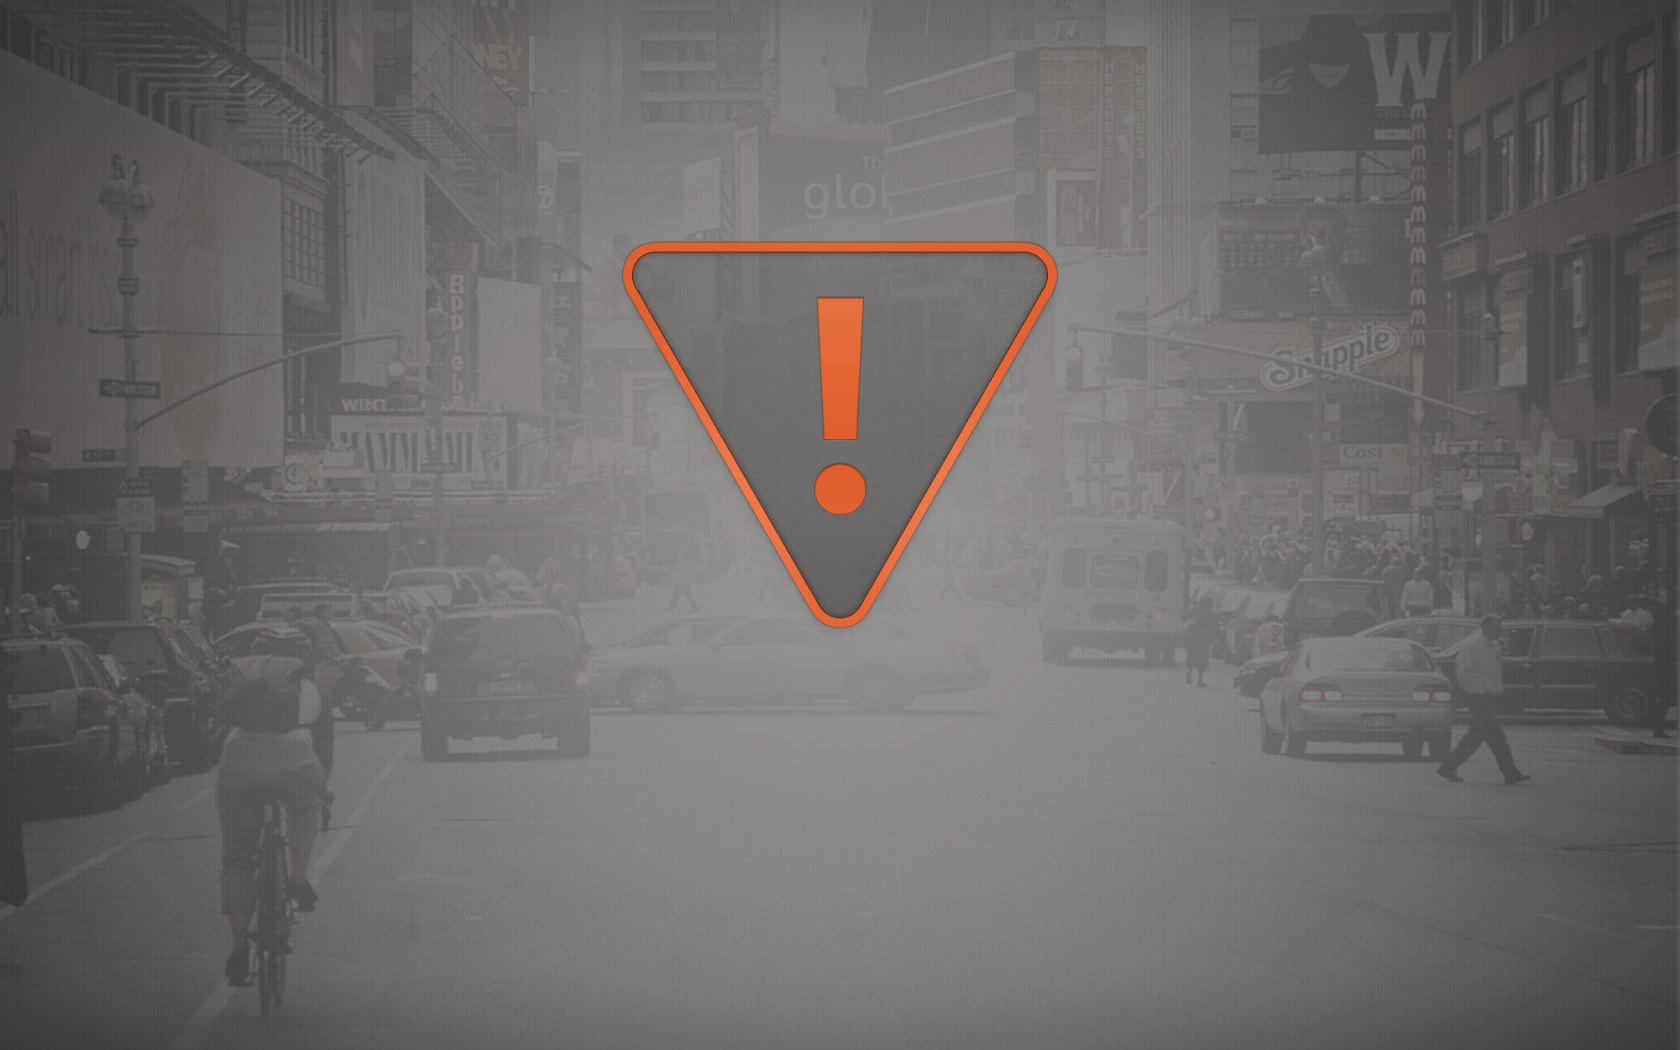
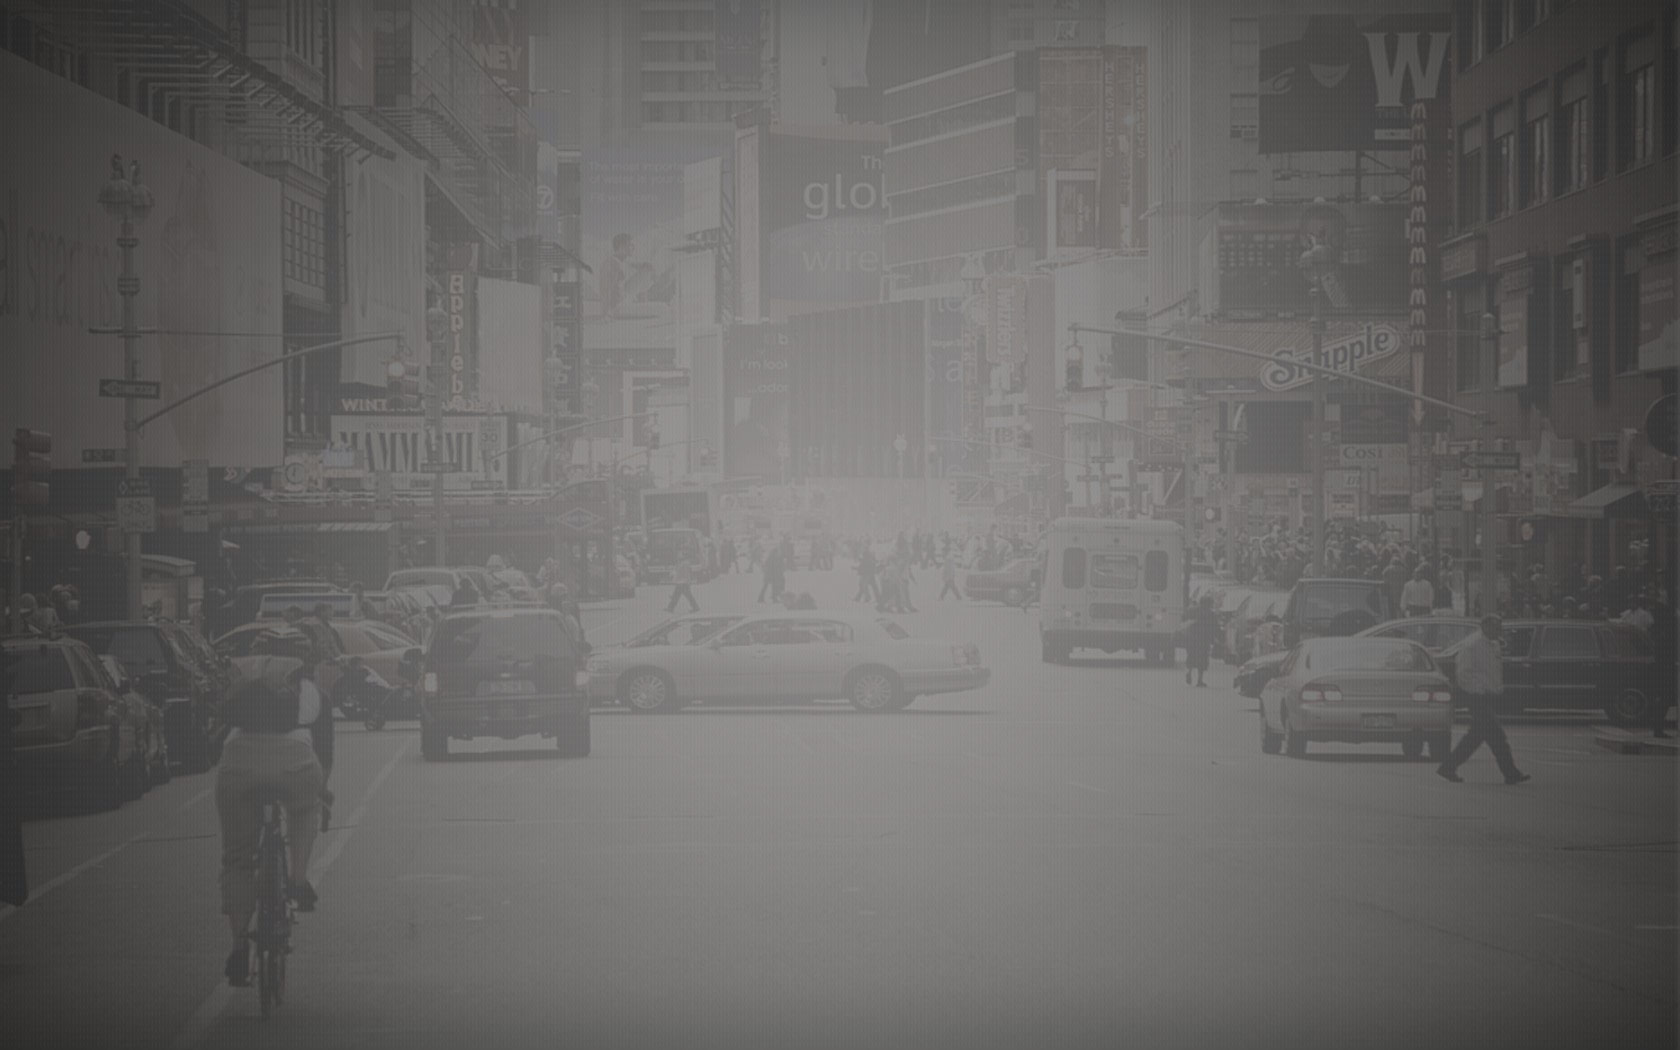
New register image

Changed region(s): [[0.3714, 0.2133, 0.65, 0.6095]]

diff --git a/register.html b/register.html
@@ -41,7 +41,7 @@
 
     </script>
 </head>
-<body>
+<body id="error">
 		<div id="header">
 			<div id="header-content" class="row">
 				<div id="brand" class="three columns">
@@ -79,20 +79,62 @@
 
 		<div id="content" class="row">
 			<div class="twelve columns">
+
+				<div class="four columns centered">
+					
+					<div class="danger">
+
+						<img src="images/yoin/danger.png" />
+
+					</div>
+
+				</div>
+
+				<div class="twelve columns">
+					
+					<p class="under-construction">Under Construction</p>
+
+
+				</div>
+
 			</div>
 		</div>
 
 
 		<div id="footer">
+		
 		<div id="footer-content" class="row">
-			<div class="four columns">
-				<div class="six columns">
+			
+			
+			<div class="four columns "> 
+
+				
+				<div class="twelve columns"> 		
+						
+
+					<p class="coming-soon">Coming soon:</p>
+
+				</div>
+
+				<div class="six columns store-icon">
+					
 					<img src="images/yoin/app_store_icon.png" />
+				
 				</div>
-				<div class="six columns">
+
+				<div class="six columns store-icon ">
+					
 					<img src="images/yoin/google_play_icon.png" />
+				
 				</div>
+
+			
+	
 			</div>
+
+
+
+
 			<div class="six columns offset-by-two">
 				<div class="six columns">
 					<a href="team.html">

diff --git a/team.html b/team.html
@@ -534,15 +534,39 @@
 	</div>
 
 	<div id="footer">
+		
 		<div id="footer-content" class="row">
-			<div class="four columns">
-				<div class="six columns">
+			
+			
+			<div class="four columns "> 
+
+				
+				<div class="twelve columns"> 		
+						
+
+							<p class="coming-soon">Coming soon:</p>
+
+				</div>
+
+				<div class="six columns store-icon">
+					
 					<img src="images/yoin/app_store_icon.png" />
+				
 				</div>
-				<div class="six columns">
+
+				<div class="six columns store-icon ">
+					
 					<img src="images/yoin/google_play_icon.png" />
+				
 				</div>
+
+			
+	
 			</div>
+
+
+
+
 			<div class="six columns offset-by-two">
 				<div class="six columns">
 					<a href="team.html">

diff --git a/stylesheets/app.css b/stylesheets/app.css
@@ -25,6 +25,10 @@ body#landing {
 	background: #000 url('../images/yoin/bg_city.jpg');
 }
 
+body#error {
+	background: #000 url('../images/yoin/bg_error.jpg');
+}
+
 body#inner {
 	
 	
@@ -529,6 +533,31 @@ p.address {
 .store-icon {
 
 	margin-top: 4%;
+}
+
+
+.danger {
+
+
+	margin-top:45%;
+	text-align: center;
+
+}
+
+
+.under-construction {
+
+	
+	margin-top: 4%;
+	text-align: center;
+
+	font-size: 48px;
+	color:#e1612f;
+	text-shadow: 0 -1px 0px rgba(0, 0, 0, 0.4), 0 1px 0px rgba(255, 255, 255, 0.2);
+	font-style: italic;
+	font-weight: bold;
+
+
 }
 
 /* -----------------------------------------
